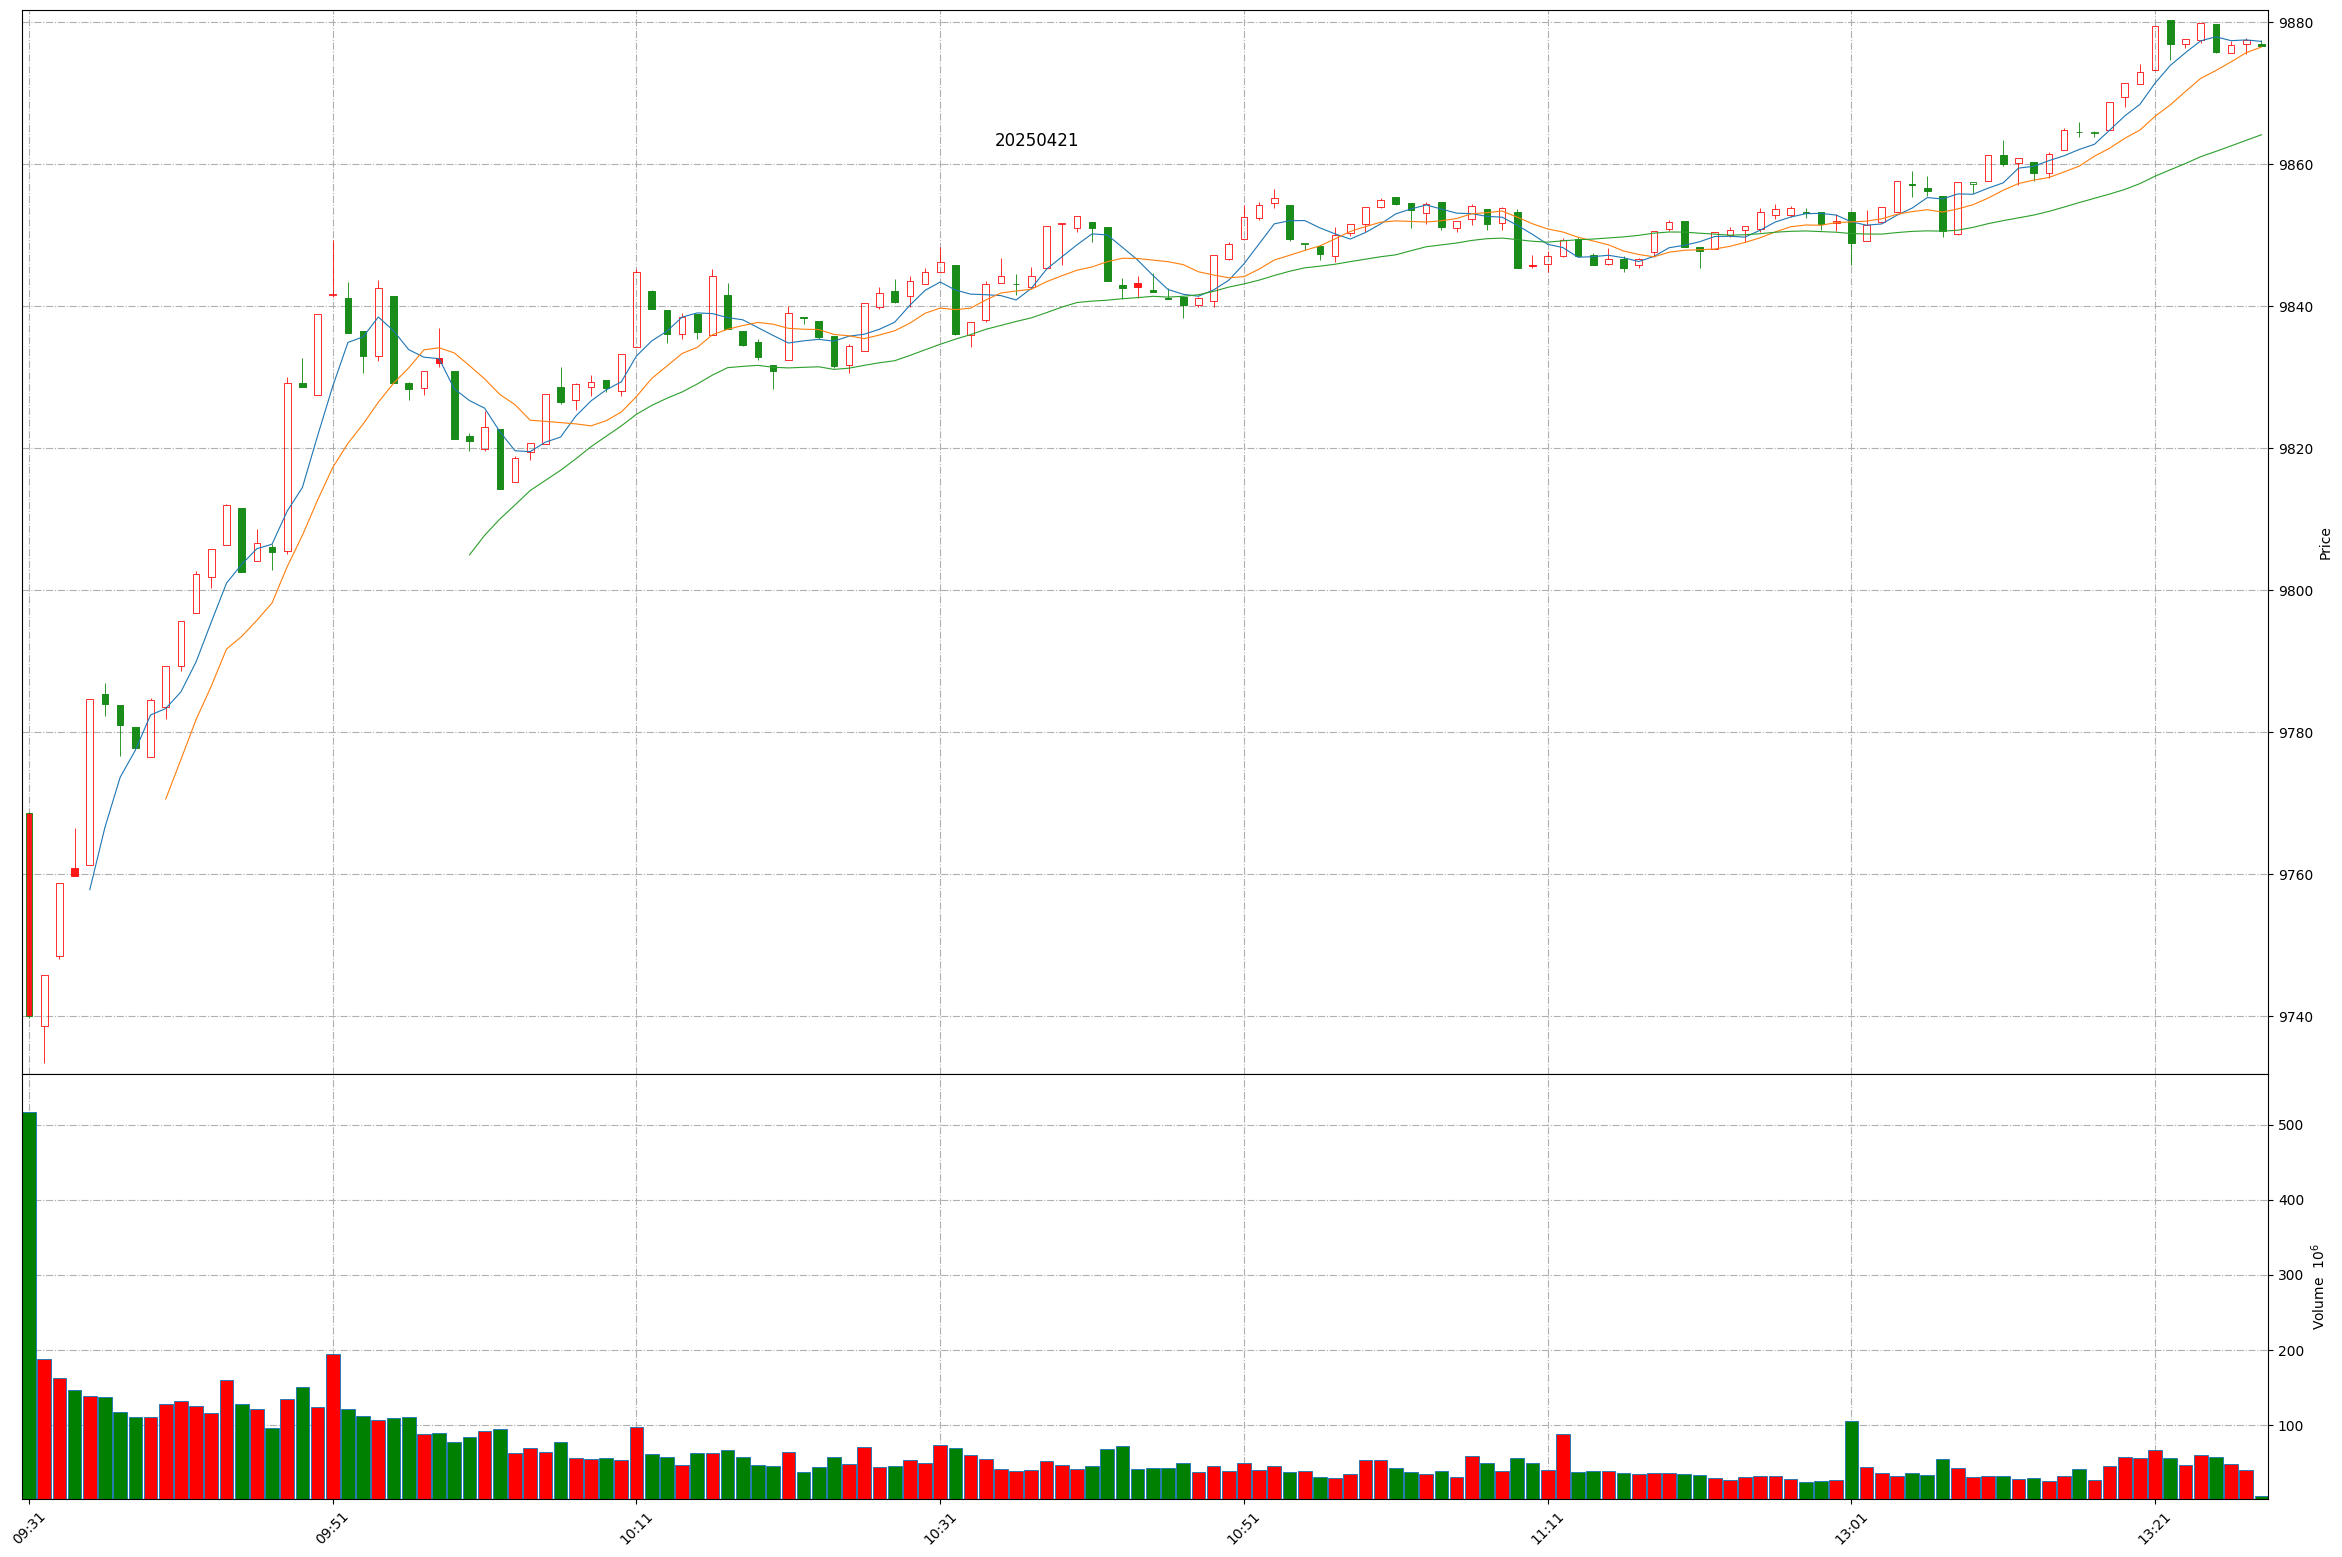
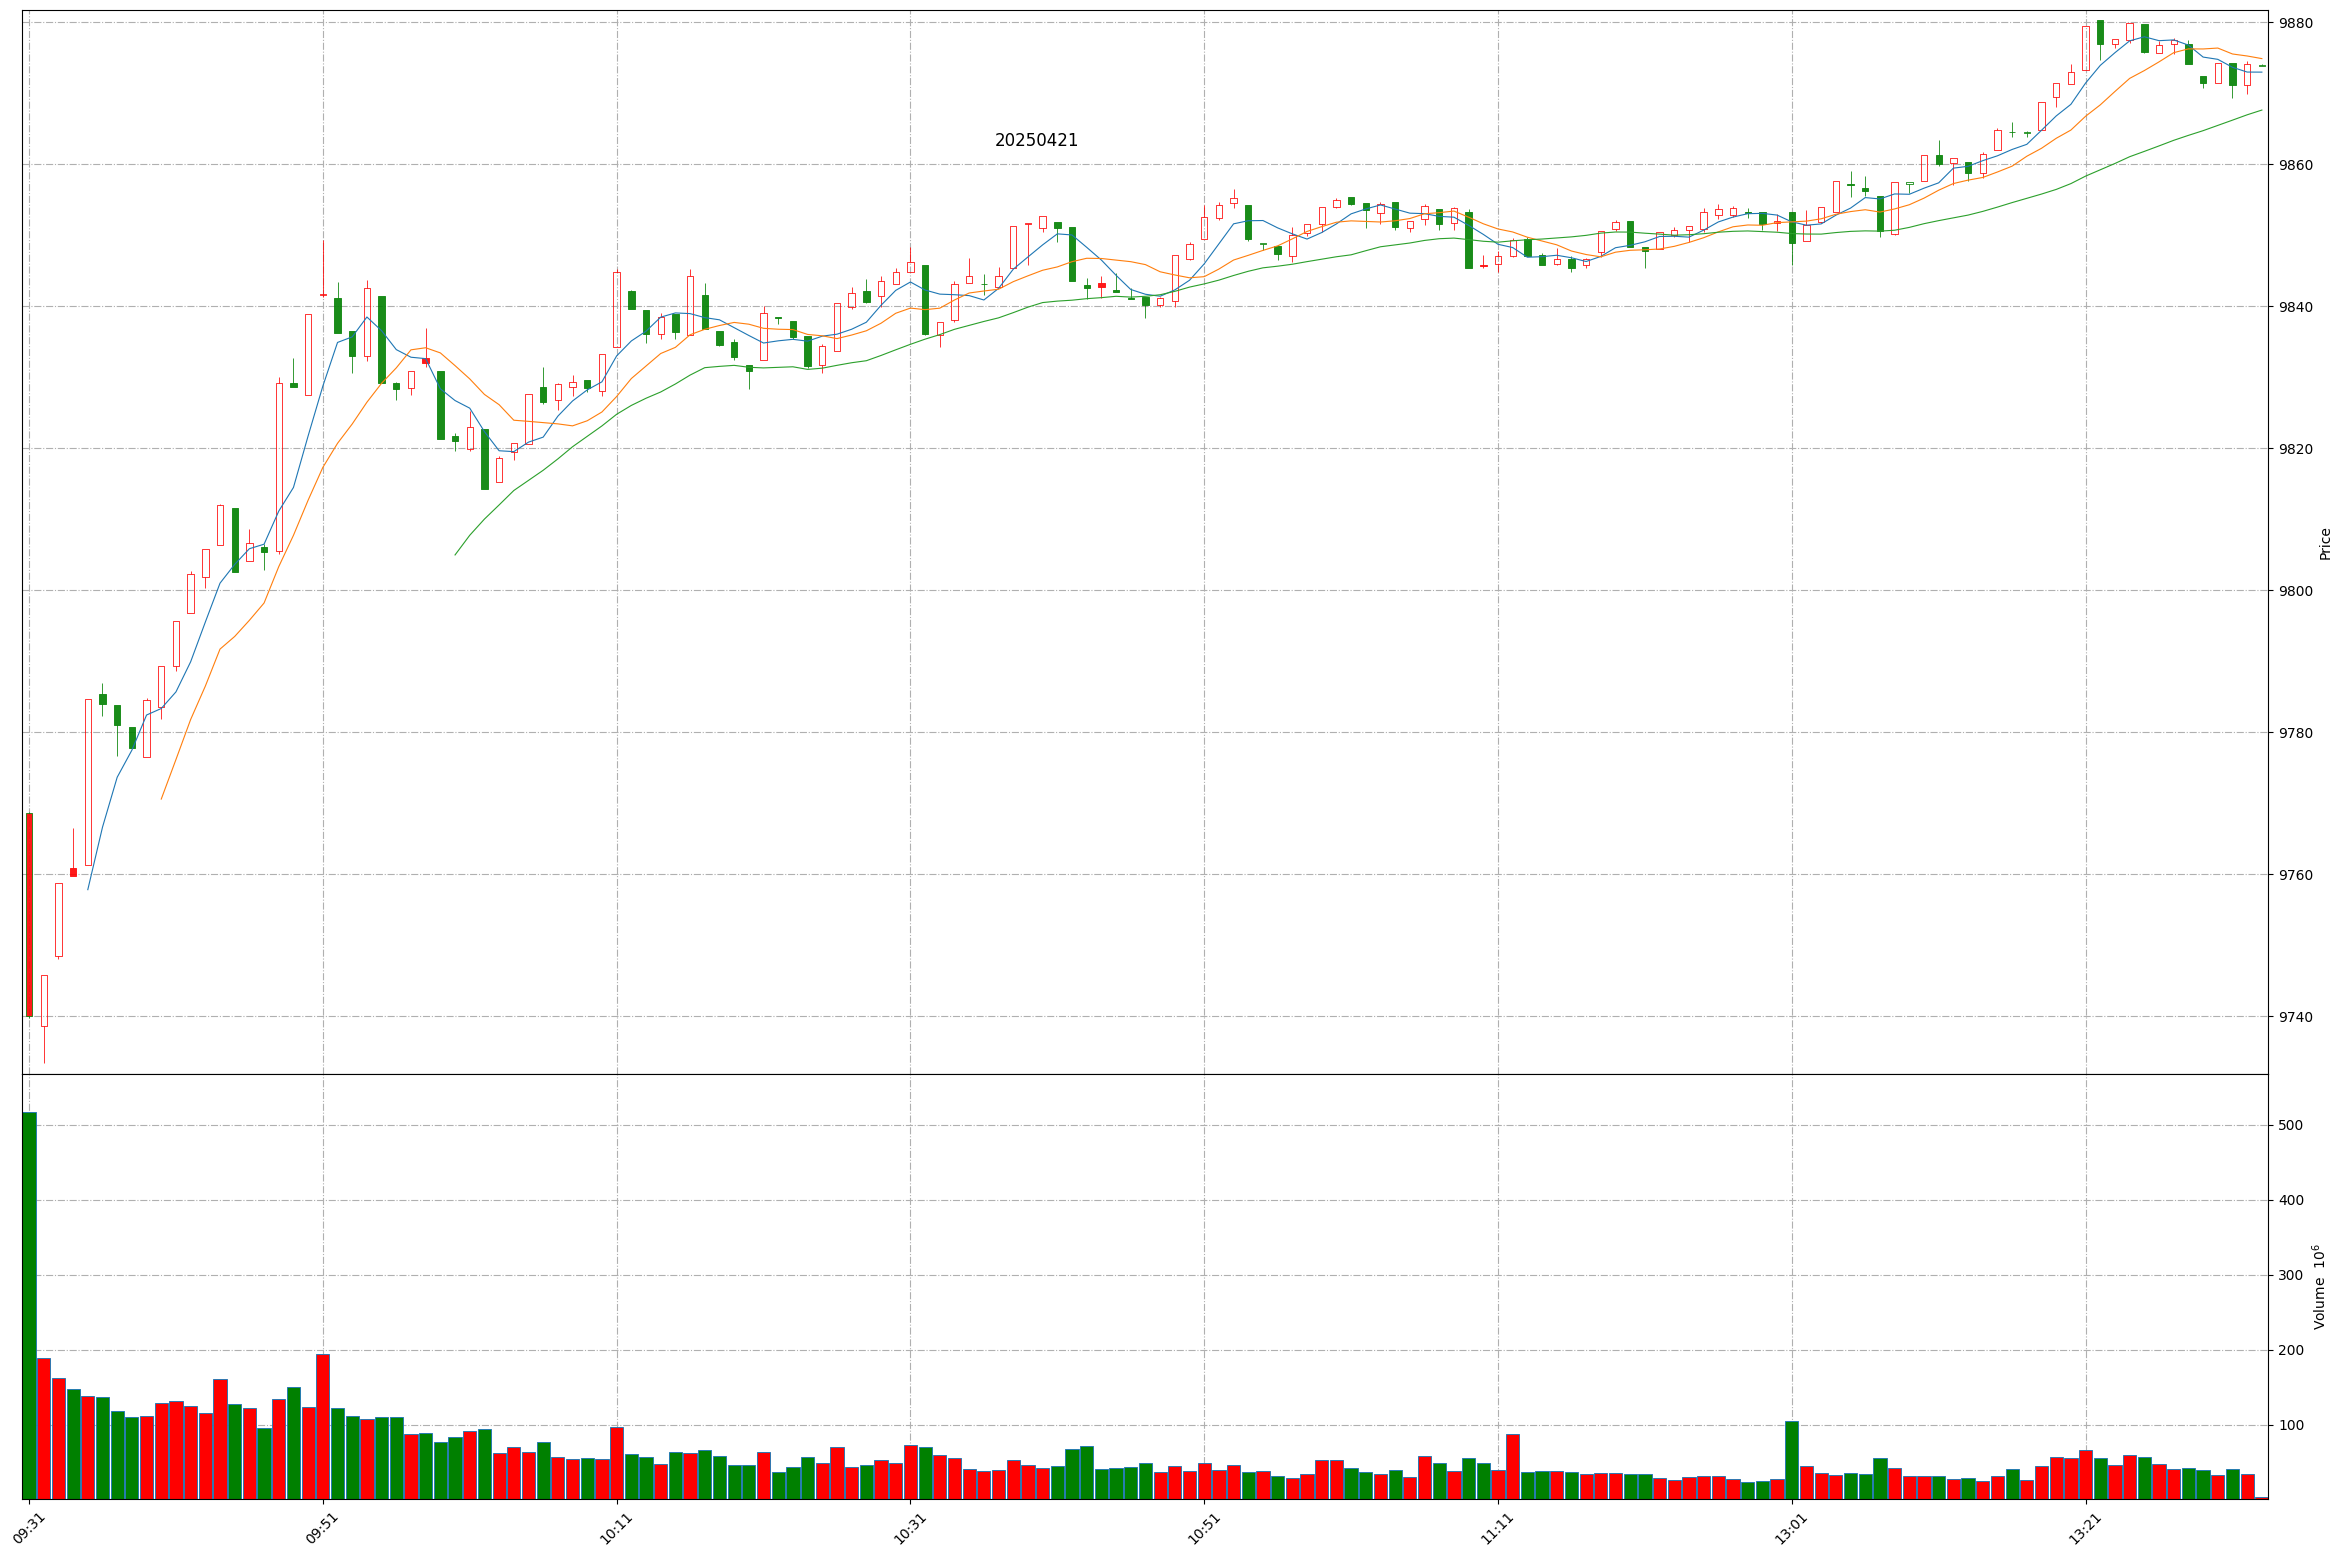
Github action update at 2025-04-21 13:32:26.

diff --git a/README.md b/README.md
@@ -1,11 +1,11 @@
 
 # Daily-A-share-market-quotes 每日 A 股指数（5min 更新）- 20250421
 
-### 上证指数 20250421 13:27
+### 上证指数 20250421 13:32
 ![](./fig/2025/4/20250421-sh000001.png)
 
-### 深证成指 20250421 13:27
+### 深证成指 20250421 13:32
 ![](./fig/2025/4/20250421-sz399001.png)
 
-### 北证50 20250421 13:27
+### 北证50 20250421 13:32
 ![](./fig/2025/4/20250421-bj899050.png)
